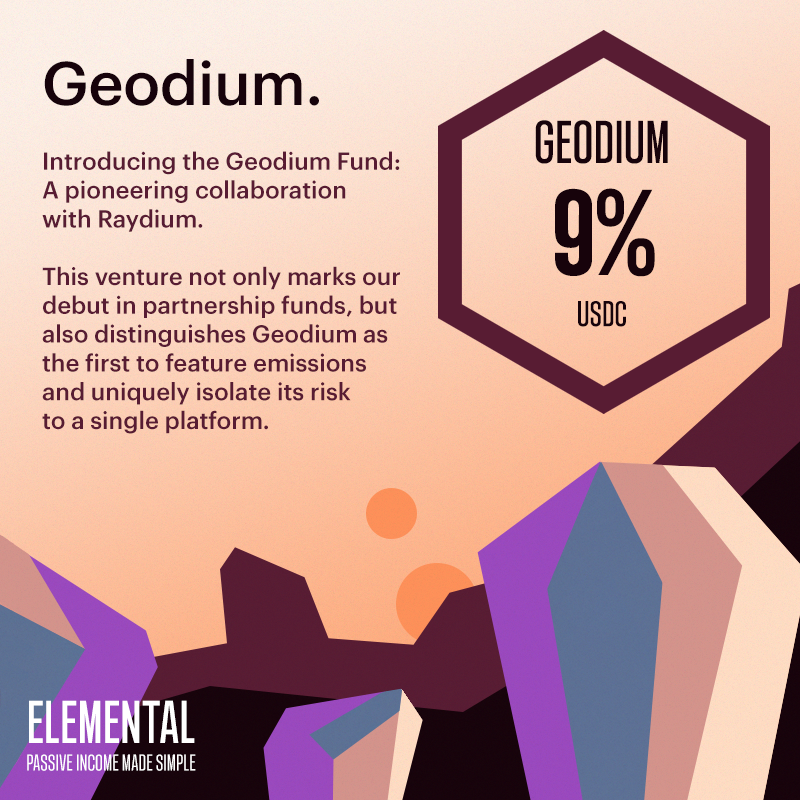
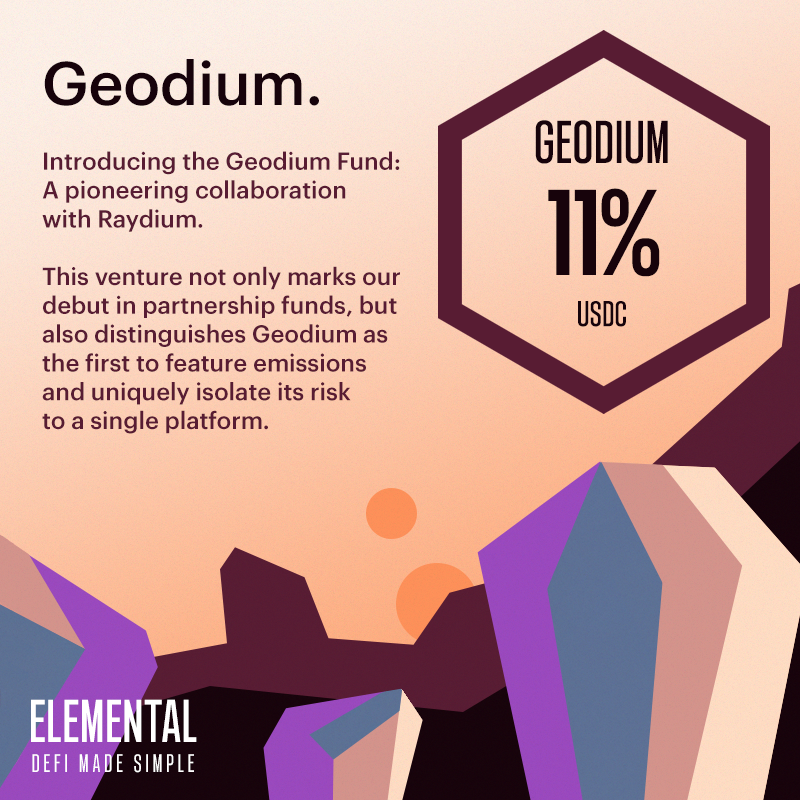
GITBOOK-292: change request with no subject merged in GitBook

Changed region(s): [[0.0312, 0.875, 0.25, 0.9688], [0.6875, 0.2188, 0.8438, 0.3438]]

diff --git a/businesses/elemental/loam.md b/businesses/elemental/loam.md
@@ -1,6 +1,6 @@
 # Loam Fund
 
-## Loam Fund (7% APR)
+## Loam Fund (13% APR)
 
 The Loam Fund provides capital protection, risk-adjusted returns, and accessibility to all.
 
@@ -9,6 +9,10 @@ Managed actively, Loam generates returns through yield farming and arbitrage opp
 The fund is named after a type of soil that is nutrient-rich and has the right texture to retain the perfect amount of water, making it ideal for gardening and agricultural purposes. Loam Fund is denominated in USDC, and we envision it as a stable foundation for growing your portfolio steadily.
 
 _Key Risk: Various stablecoins depegging, oracle issues, protocols getting exploited._
+
+## Artwork
+
+<figure><img src="../../.gitbook/assets/fund_artwork_loam.png" alt=""><figcaption><p>Loam Fund Artwork</p></figcaption></figure>
 
 ## Fund Characteristics
 

diff --git a/businesses/elemental/geodium.md b/businesses/elemental/geodium.md
@@ -1,6 +1,6 @@
 # Geodium Fund
 
-## Geodium Fund (9% APR)
+## Geodium Fund (11% APR)
 
 The Geodium Fund marks a significant milestone for us as it represents our first-ever partnership, joining forces with Raydium.
 
